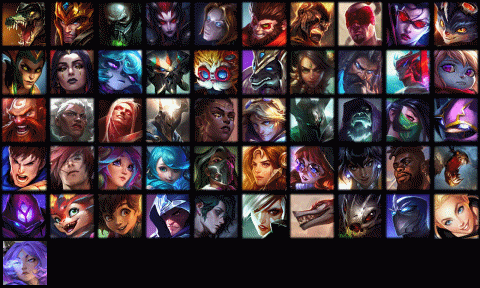
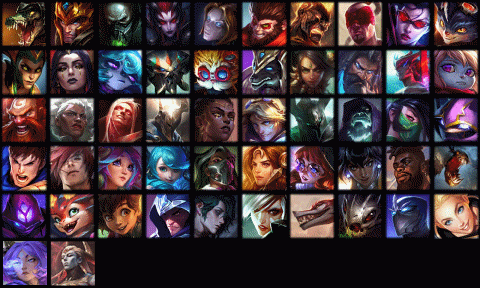
dev

Changed region(s): [[0.0938, 0.8125, 0.2188, 1.0]]

diff --git a/static/css/champions.css b/static/css/champions.css
@@ -182,3 +182,4 @@
 [data-champion="Shen"]          { background-position: -384px -192px; }
 [data-champion="Lux"]           { background-position: -432px -192px; }
 [data-champion="Yunara"]        { background-position: 0px -240px; }
+[data-champion="Zaheen"]        { background-position: -48px -240px; }

diff --git a/champs.py b/champs.py
@@ -164,10 +164,11 @@ champs = {
     162: {'name': 'Yunara', 'role': ['adc'], 'sheet': 2},
     163: {'name': 'Yuumi', 'role': ['sup'], 'sheet': 1},
     164: {'name': 'Zac', 'role': ['jun'], 'sheet': 0},
-    165: {'name': 'Zed', 'role': ['jun', 'mid'], 'sheet': 1},
-    166: {'name': 'Zeri', 'role': ['adc'], 'sheet': 0},
-    167: {'name': 'Ziggs', 'role': ['mid', 'adc'], 'sheet': 0},
-    168: {'name': 'Zilean', 'role': ['mid', 'sup'], 'sheet': 1},
-    169: {'name': 'Zoe', 'role': ['mid'], 'sheet': 0},
-    170: {'name': 'Zyra', 'role': ['mid', 'jun', 'sup'], 'sheet': 0},
+    165: {'name': 'Zaheen', 'role': ['top'], 'sheet': 2},
+    166: {'name': 'Zed', 'role': ['jun', 'mid'], 'sheet': 1},
+    167: {'name': 'Zeri', 'role': ['adc'], 'sheet': 0},
+    168: {'name': 'Ziggs', 'role': ['mid', 'adc'], 'sheet': 0},
+    169: {'name': 'Zilean', 'role': ['mid', 'sup'], 'sheet': 1},
+    170: {'name': 'Zoe', 'role': ['mid'], 'sheet': 0},
+    171: {'name': 'Zyra', 'role': ['mid', 'jun', 'sup'], 'sheet': 0},
 }

diff --git a/README.md b/README.md
@@ -12,6 +12,11 @@ V6?
 Vote put & new table?
 19H15/30
 
+# Changer un champion
+update le spritesheet
+update champs.py
+update champions.css
+
 # Notes
 bottleneck for now seems to be redis pubsub
 we do shell+stream 2 times for easier pubsub deco/reco
